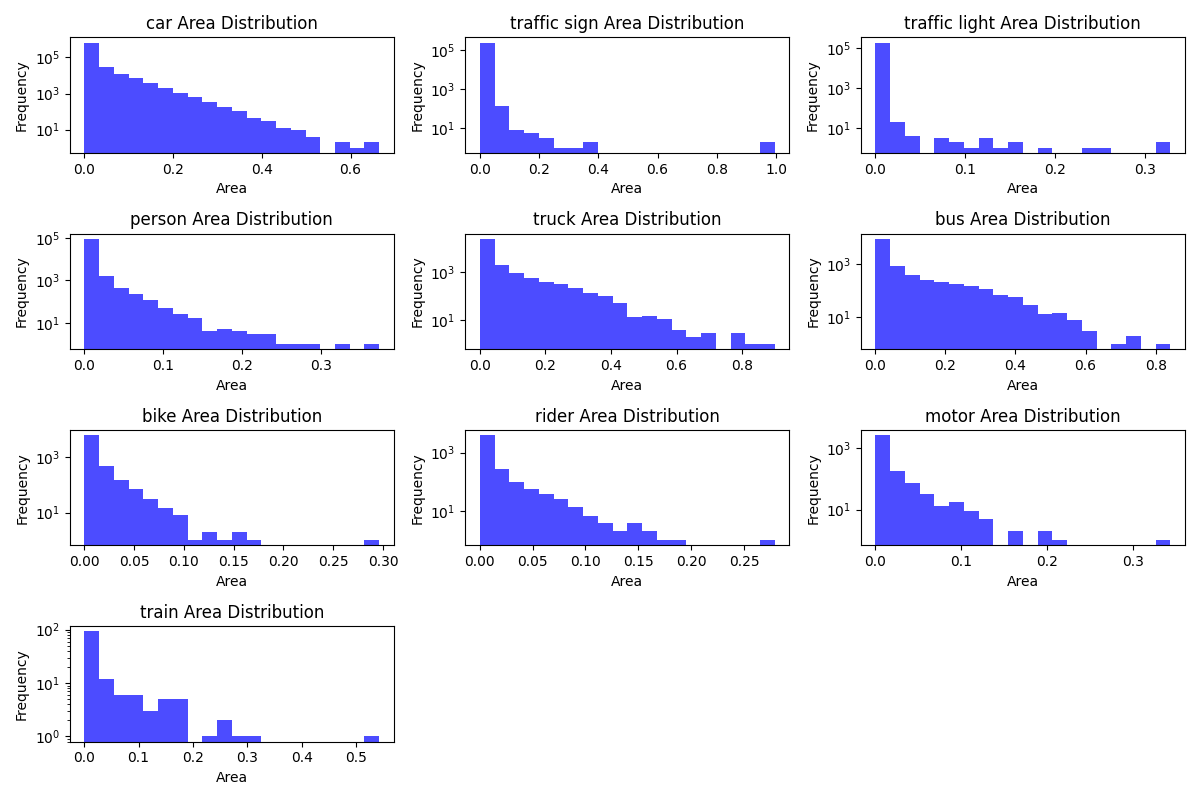
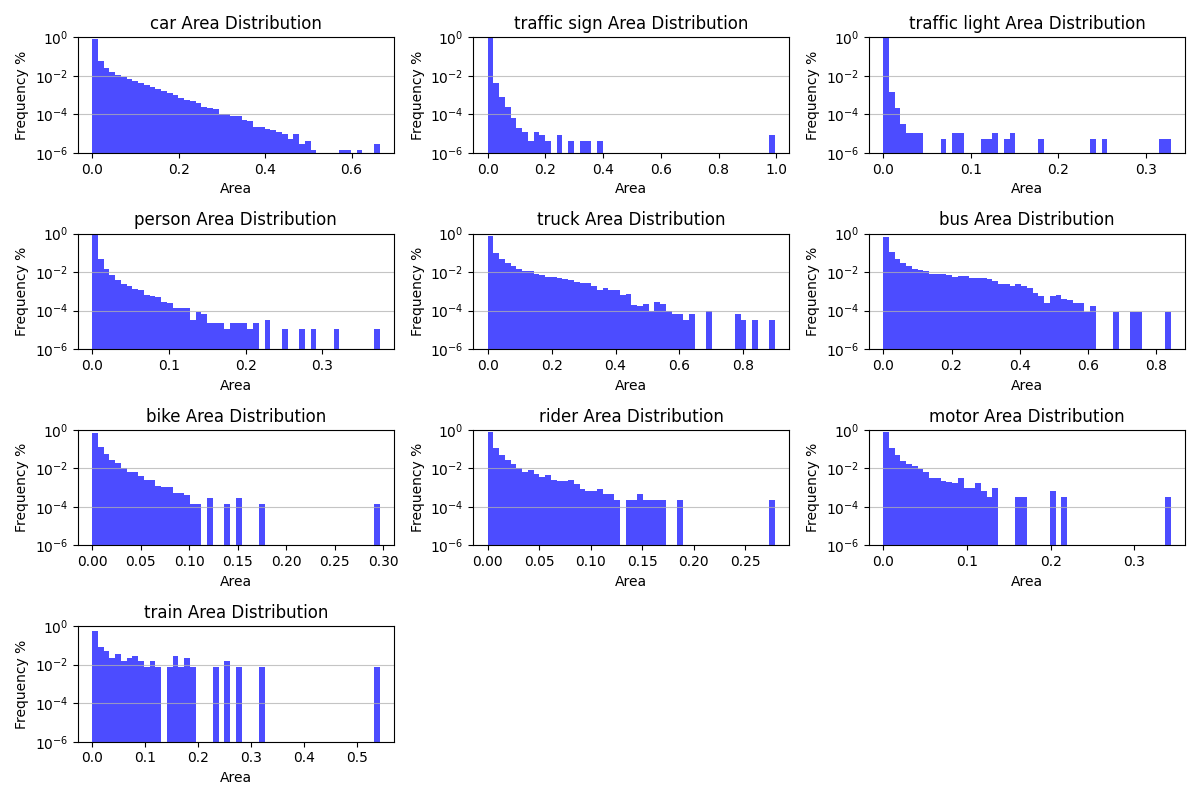
more plots for bboxes & readme tldr

diff --git a/src/task1/README.md b/src/task1/README.md
@@ -2,6 +2,23 @@
 
 Analysis of class distribution in the BDD100K dataset, including occurrence patterns, train-val ratios, and class co-occurrence matrices.
 
+## Key Insights
+
+- Most objects are cars (600K in 100K images). The they are followed by traffic signs & lights
+- Cars also appear in most images. 
+  - 12% images contain just cars.
+  - 85% images contain ontl (cars + traffic light + traffic sign) 
+  - Each image contains ~15 objects. But a lot of image contain >20 objects.
+- Train class object is very rare - 42 occurances in 100K image
+- Split seems good based on multiple metrics
+  - RoI; Frequnecy distribution
+- All classe frequnecy distribution seems to poission distribution
+- Causal classes
+  - (car; traffic light; traffic sign); (bike; rider); (rider; motor)
+- Bbox Area distribution
+  - Vehices seems to in range of [0, 0.1-0.2]
+  - Rider and bikes are in [0, 0.05]
+  - Traffic stuff are in [0, 0.05]. Traffic light is even worse where 90% are below 0.1% (32^2)
 
 ## 🔧 Requirements
 
@@ -117,6 +134,25 @@ Compares how many images contain each class between train and test sets.
 Shows which classes tend to appear together in the same images. Uses log scale for better visualization.
 
 ![Class Co-occurrence Matrix](images/class_cooccurrence.png)
+
+---
+
+### 7, Bboxes distribution
+
+Here we have how the boxes area & aspect ratio are spread across each class
+
+![Bbox area distribution](images/bbox_area_distribution_train.png)
+
+![Bbox aspect ratio distribution](images/bbox_aspect_distribution_train.png)
+
+Closer look for the traffic sign - It's distribution is heavily skewed towards small area (0.001)
+
+![Traffic Light Bbox area distribution](images/bbox_area_distribution_traffic_light.png)
+
+We also are plotting where each object will apear on the image. The split across the train and validation seems good.
+
+![Bbox RoI distribution](images/bbox_region_distribution_train.png)
+![Val Bbox RoI distribution](images/bbox_region_distribution_validation.png)
 
 ---
 
